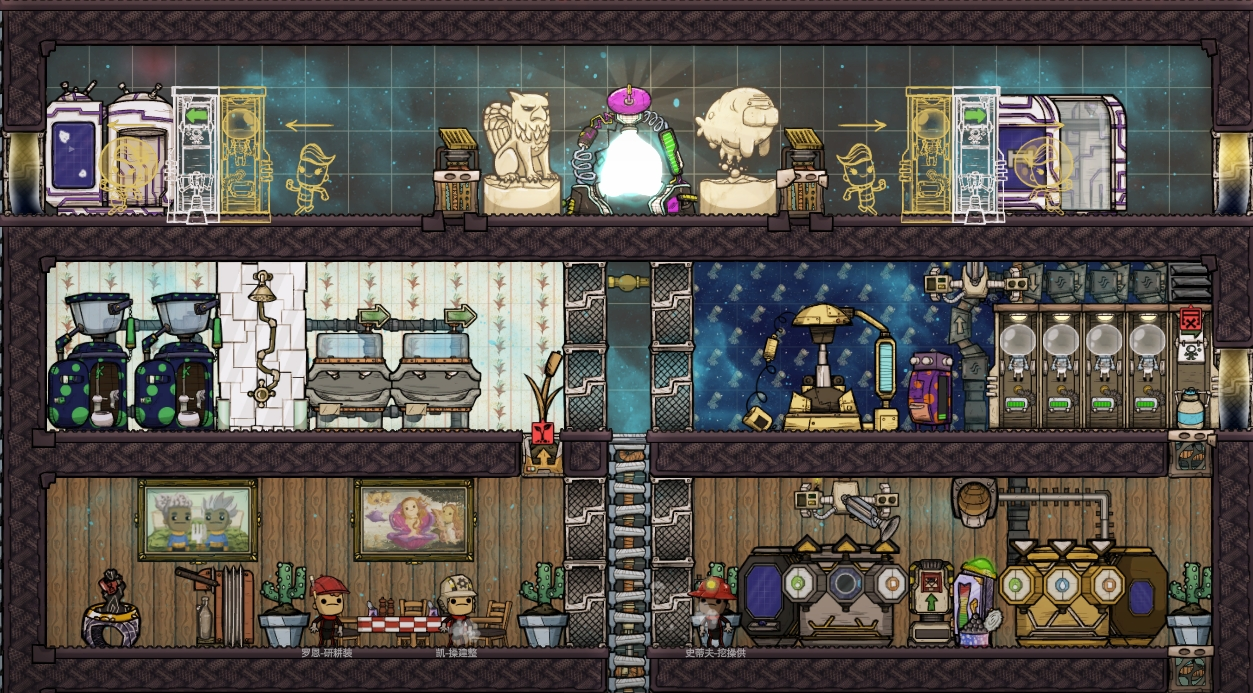
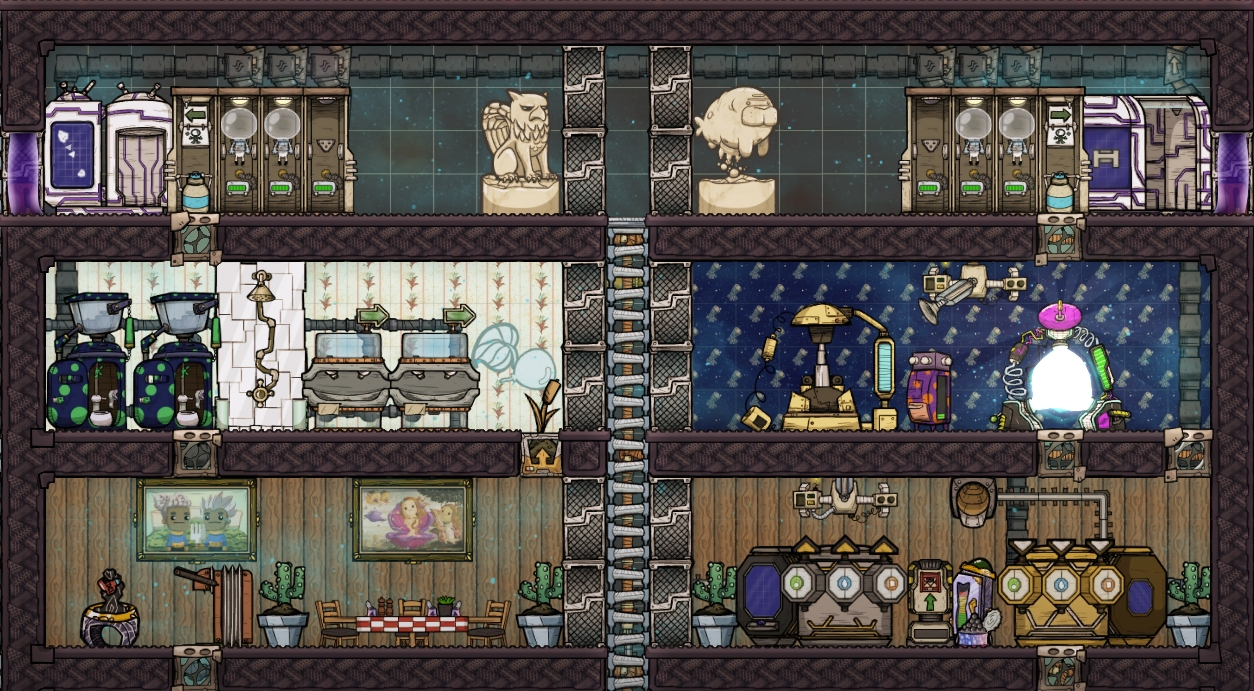
docs: 副星基地

diff --git a/docs/.vitepress/menu.ts b/docs/.vitepress/menu.ts
@@ -31,7 +31,7 @@ export const menus: MenuGroup[] = [
       { text: '液泉开发', link: '/geyser/yequan' },
       { text: '火山开发', link: '/geyser/huoshan' },
       { text: '金属火山', link: '/geyser/jinshu' },
-      { text: '原油裂化', link: '/geyser/yuanyou' }
+      { text: '原油开发', link: '/geyser/yuanyou' }
     ]
   },
   {

diff --git a/docs/geyser/yuanyou.md b/docs/geyser/yuanyou.md
@@ -1,6 +1,16 @@
-# 原油裂化
+# 原油开发
 
-## 手动版本
+## 油井开采
+
+- 油井可以浸泡，方便换热
+- 油井不怕过热，但是输入的水怕高温相变
+- 所以需要控一下温度
+
+![](/imgs/geyser/youjing1.jpg)
+
+## 原油裂化
+
+- 手动但是有效版
 
 ![](/imgs/geyser/yuanyou1.jpg)
 
@@ -25,3 +35,11 @@
 - 该步骤效率低，可在闲时操作，或者跳过
 
 ![](/imgs/geyser/yuanyou5.jpg)
+
+- 冷却池液冷管通蒸气室回收热量
+
+![](/imgs/geyser/yuanyou6.jpg)
+
+- 隔壁回收
+
+![](/imgs/geyser/yuanyou7.jpg)

diff --git a/docs/build/jidi.md b/docs/build/jidi.md
@@ -64,14 +64,13 @@
 ## 副星基地
 
 - 以传送遗迹为界限，占地 29 格
-- 14 x 6 小房间，梯子占 1 格
 
-![](/imgs/jd/fuxing1.jpg)
-
-- 5 层小基地
-
-![](/imgs/jd/fuxing2.jpg)
-
-- 实则可以压缩一层，把传送遗迹规划进来
+- 6 层小基地
+- 右遗迹挪了一下，可以不挪
 
 ![](/imgs/jd/fuxing3.jpg)
+
+- 14 x 6 小房间，梯子占 1 格
+- 房间不少，实则可以压缩一层
+
+![](/imgs/jd/fuxing4.jpg)
